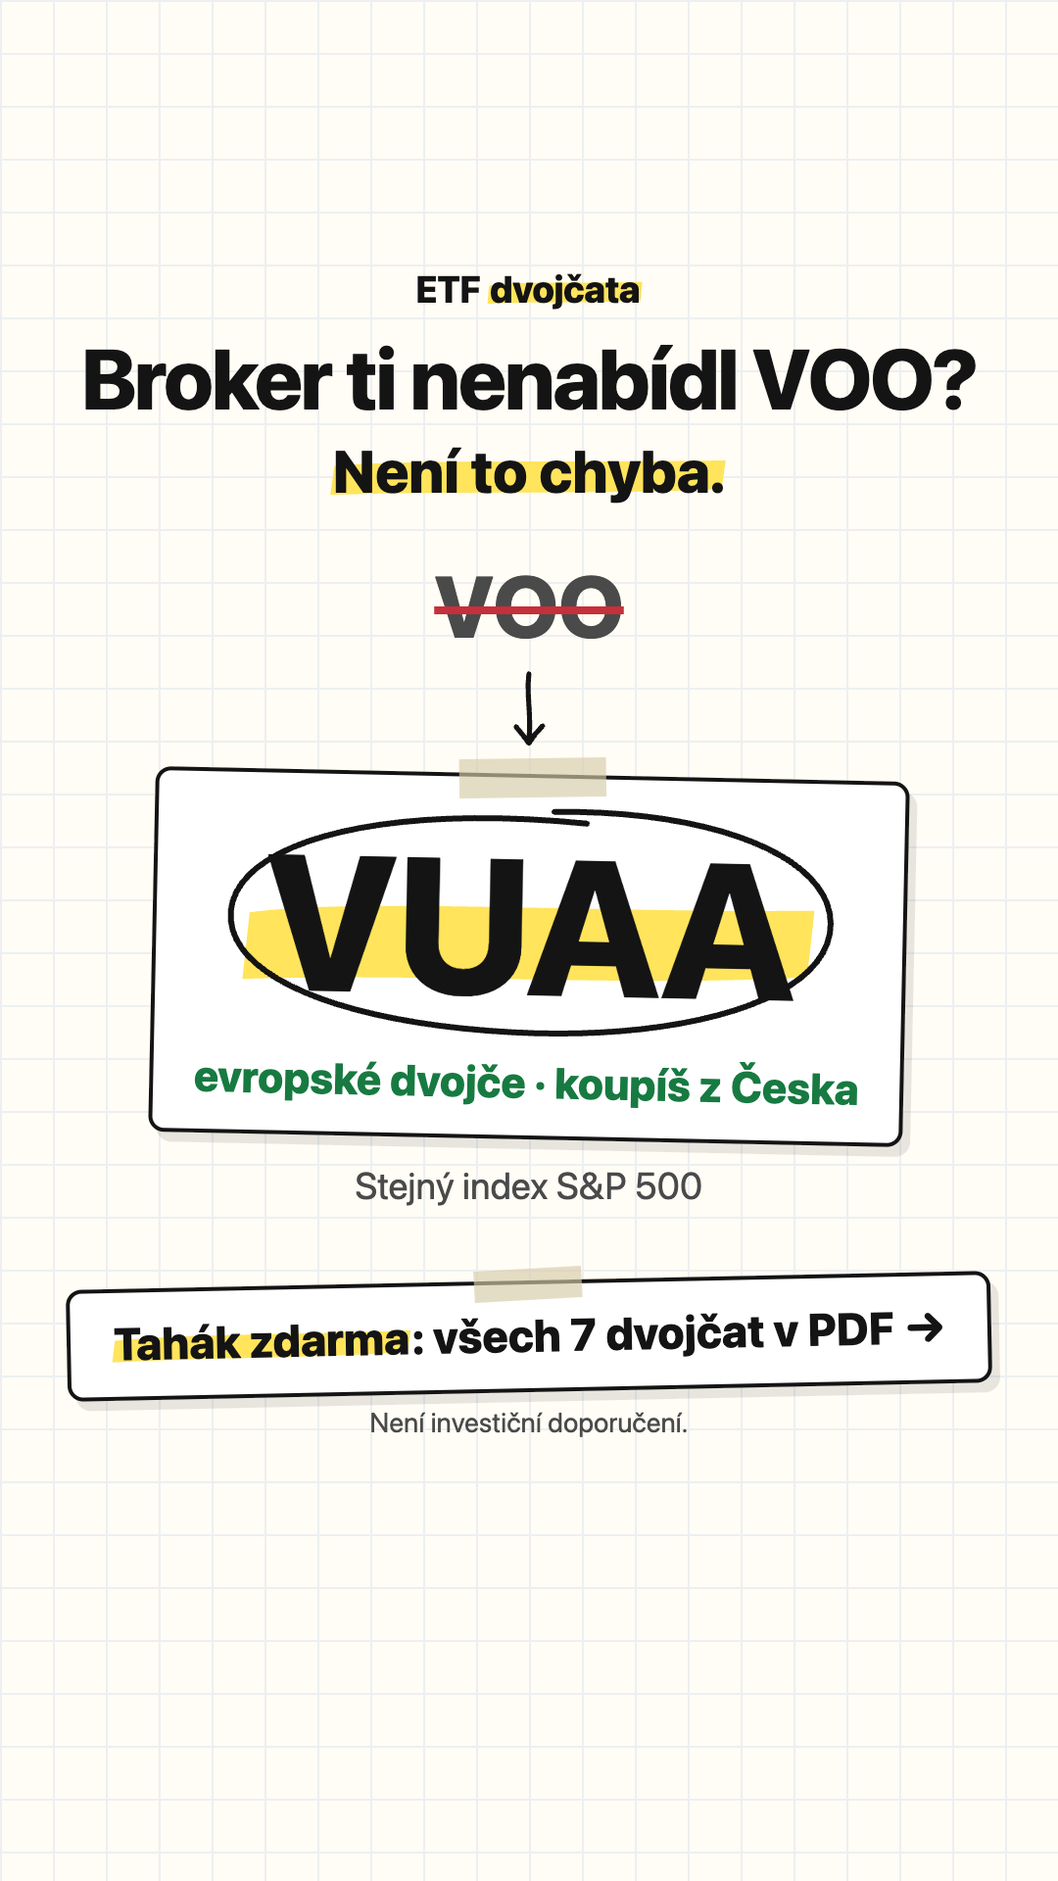
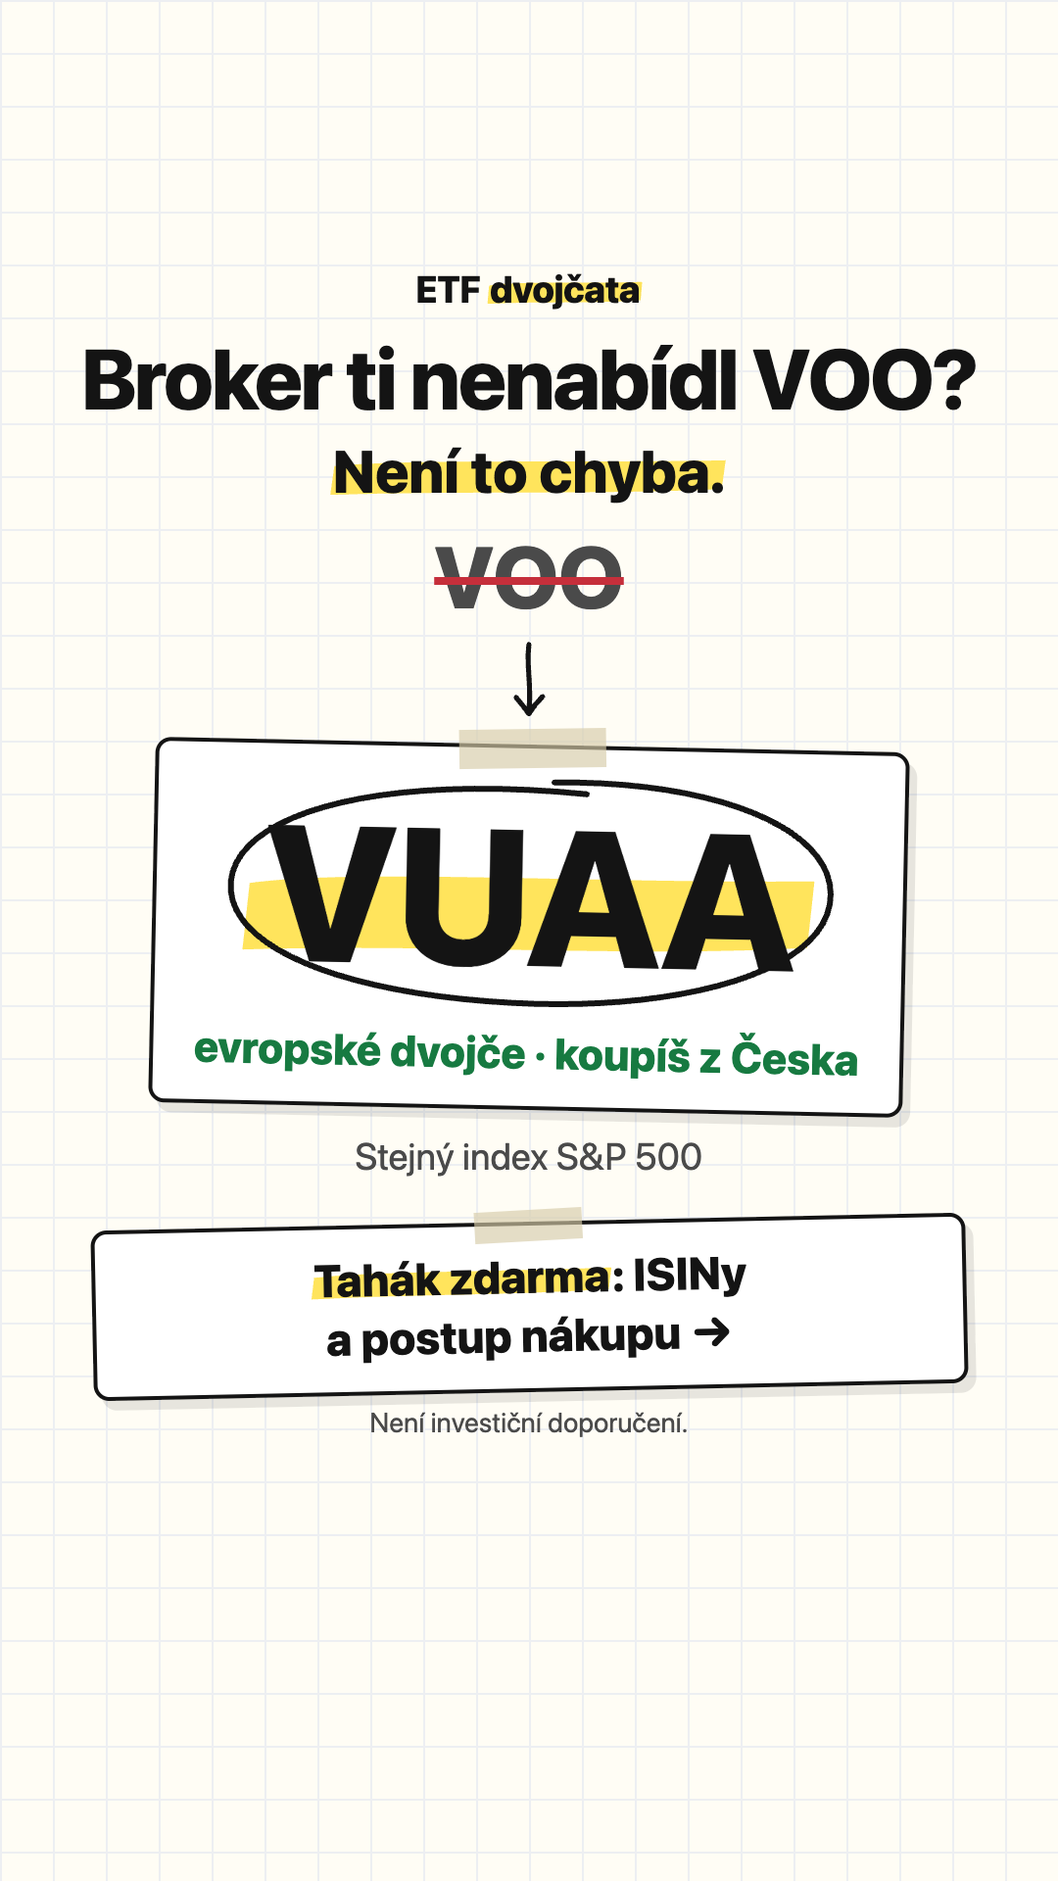
Slib taháku: ISINy a postup nákupu místo „všech 7 dvojčat“
Dvojčata stránka ukáže zdarma, tahák přidává jen ISINy a postup
nákupu u XTB a Trading 212 krok za krokem. Nový slib všude:
- výzva po otočení „Chci tahák s postupem nákupu“ (ze tří variant,
  zdůvodnění v README), text pod ní, spodní lišta, panel, nadpis
  sekce Tahák (postup nákupu je první odrážka),
- reklamy: „Tahák zdarma: ISINy a postup nákupu →“ (u Stories se
  nabídka zalomí, šířka 94 %, bezpečné zóny skript ověřil).
README: původní „výzva jak koupit“ už není hypotéza, ale oprava. Nová
druhá hypotéza: poslední tři lístky zamčené za e-mail (jen pro
reklamu A, riziko pro důvěru a slib reklamy B), auto-otočený lístek
je třetí. Pořadí znovu zdůvodněné. Chrome 128, WebKit 81.

Changed region(s): [[0.0611, 0.2812, 0.9472, 0.75], [0.825, 0.4062, 0.8861, 0.4375], [0.1222, 0.4062, 0.1528, 0.4375]]

diff --git a/public/index.html b/public/index.html
@@ -268,8 +268,8 @@ html{scroll-behavior:auto}
     </div>
 
     <div class="cta" id="vyber-cta" data-host hidden>
-      <button class="btn" type="button" data-otevri="vyber">Chci tahák se všemi 7&nbsp;dvojčaty</button>
-      <p class="small">ISINy, poplatky a&nbsp;postup nákupu krok za krokem. PDF hned a&nbsp;zdarma.</p>
+      <button class="btn" type="button" data-otevri="vyber">Chci tahák s&nbsp;postupem nákupu</button>
+      <p class="small">ISINy všech dvojčat a&nbsp;postup nákupu u&nbsp;XTB a&nbsp;Trading&nbsp;212 krok za krokem. PDF hned a&nbsp;zdarma.</p>
       <div class="form-slot" data-slot="vyber"></div>
     </div>
     <p class="stamp">Data od správců fondů a&nbsp;brokerů, ověřeno 10.&nbsp;10.&nbsp;2026 (<a href="#data">zdroje</a>). Není to investiční doporučení.</p>
@@ -406,13 +406,13 @@ html{scroll-behavior:auto}
 </section>
 
 <section class="section wrap" id="tahak">
-  <h2>Tahák: 7&nbsp;ETF z&nbsp;NYSE a&nbsp;jejich <span class="fix">dvojčata</span>, která koupíš z&nbsp;Česka</h2>
+  <h2>Tahák: ISINy dvojčat a&nbsp;<span class="fix">postup nákupu</span> krok za krokem</h2>
   <div class="form-card" data-host>
     <figure class="nahled"><img src="img/tahak-nahled.webp" width="480" height="420" loading="lazy" decoding="async" alt="Náhled první strany taháku: sedm párů ETF, u každého fajfka, kde ho koupíš, a poplatek v korunách."></figure>
     <ul class="bullets">
+      <li><svg class="ico"><use href="#fajfka"/></svg><span>Postup nákupu u&nbsp;XTB a&nbsp;Trading&nbsp;212&nbsp;krok za krokem, se zdrojem u&nbsp;každého kroku.</span></li>
       <li><svg class="ico"><use href="#fajfka"/></svg><span>ISIN a&nbsp;ticker všech 7&nbsp;dvojčat. Zkopíruješ je rovnou do aplikace brokera.</span></li>
       <li><svg class="ico"><use href="#fajfka"/></svg><span>Poplatky originálů a&nbsp;dvojčat vedle sebe.</span></li>
-      <li><svg class="ico"><use href="#fajfka"/></svg><span>Postup nákupu u&nbsp;XTB a&nbsp;Trading&nbsp;212&nbsp;krok za krokem.</span></li>
     </ul>
     <div class="form-slot" data-slot="sekce">
       <form class="lead-form" action="/api/lead" method="post" novalidate>
@@ -451,7 +451,7 @@ html{scroll-behavior:auto}
 
 <div class="bar" id="lista" hidden>
   <div class="bar-in">
-    <p>Tahák zdarma: všech 7&nbsp;dvojčat</p>
+    <p>Tahák zdarma: ISINy a&nbsp;postup nákupu</p>
     <button class="btn btn-yellow btn-small" type="button" data-otevri="lista">Chci tahák</button>
   </div>
 </div>
@@ -460,8 +460,8 @@ html{scroll-behavior:auto}
   <div class="sheet-in">
     <button class="sheet-close" type="button" aria-label="Zavřít" data-zavri>×</button>
     <div data-host>
-    <h2 id="panel-nadpis" tabindex="-1">Tahák: 7&nbsp;ETF z&nbsp;NYSE a&nbsp;jejich dvojčata, která koupíš z&nbsp;Česka</h2>
-    <p class="small">ISINy, poplatky a&nbsp;postup nákupu krok za krokem. PDF hned a&nbsp;zdarma.</p>
+    <h2 id="panel-nadpis" tabindex="-1">Tahák: ISINy dvojčat a&nbsp;postup nákupu krok za krokem</h2>
+    <p class="small">ISINy všech dvojčat a&nbsp;postup nákupu u&nbsp;XTB a&nbsp;Trading&nbsp;212 krok za krokem. PDF hned a&nbsp;zdarma.</p>
     <div class="form-slot" data-slot="lista"></div>
     </div>
   </div>

diff --git a/README.md b/README.md
@@ -11,7 +11,7 @@
 
 1. Otevři [etf-dvojcata-demo.vercel.app/?v=dvojce](https://etf-dvojcata-demo.vercel.app/?v=dvojce). Nadpis navazuje na reklamu A, pro srovnání zkus [?v=zacatek](https://etf-dvojcata-demo.vercel.app/?v=zacatek).
 2. Klepni na lístek **VOO**. Otočí se a ukáže evropské dvojče VUAA, u kterých brokerů ho koupíš a kolik stojí ročně z 10 000 Kč. Pod lístky se objeví výzva k taháku.
-3. Klepni na „Chci tahák se všemi 7 dvojčaty“, zadej e-mail, zaškrtni souhlas a odešli. Přijde poděkování s tlačítkem „Otevřít tahák“ (PDF) a sdílením. Když stránku posuneš dál, objeví se dole lišta, která formulář otevře jako panel.
+3. Klepni na „Chci tahák s postupem nákupu“, zadej e-mail, zaškrtni souhlas a odešli. Přijde poděkování s tlačítkem „Otevřít tahák“ (PDF) a sdílením. Když stránku posuneš dál, objeví se dole lišta, která formulář otevře jako panel.
 4. Ochrana formuláře: zkus `x@mailinator.com` (jednorázová adresa) nebo `test@neexistuje.invalid` (doména nepřijímá poštu).
 
 Takhle to vypadá na iPhonu 13 (390 × 844). Úvod, lístek a formulář jsou z živé stránky (11. 10. 2026, požadavky na `/api/` zablokované, nic se neodeslalo), poděkování z lokálního serveru s podvrženou databází:
@@ -47,9 +47,16 @@ Exporty konverzací s AI jsou v [ai-log/](ai-log/), reklamy v [reklamy/](reklamy
 
 **Kdy žádáme o kontakt:**
 
-1. Hned po prvním otočení lístku: pod lístky se objeví „Chci tahák se všemi 7 dvojčaty“. Návštěvník právě dostal hodnotu a ví, že zbylých 6 párů a postup jsou v taháku. Formulář se rozbalí na místě.
+1. Hned po prvním otočení lístku: pod lístky se objeví „Chci tahák s postupem nákupu“. Návštěvník právě viděl dvojče a výzva mu nabízí, co mu ještě chybí: jak ho koupit. Formulář se rozbalí na místě.
 2. Spodní lištou, která se ukáže, když lístky zmizí z obrazovky a výzva ani formulář nejsou vidět. Formulář se otevře jako panel tam, kde návštěvník právě je.
 3. Formulářem v sekci Tahák pro ty, kdo dočtou až dolů.
+
+**Co tahák slibuje.** Jen to, co PDF přidává navíc ke stránce: ISINy všech dvojčat a postup nákupu u XTB a Trading 212 krok za krokem. Dvojčata samotná stránka ukáže zdarma, takže slib „všech 7 dvojčat“, který tu byl dřív, by nabízel něco, co návštěvník už má. Varianty textu tlačítka pod lístky:
+1. „Chci tahák s postupem nákupu“ (vybraná: nejkratší, nezalomí se ani na 320 px, navazuje na „Tahák zdarma“ z reklam a sedí s tlačítkem u karet „Chci tahák s ISINy a postupem nákupu“),
+2. „Chci postup nákupu krok za krokem“ (konkrétnější, ale bez slova tahák, které reklama slibuje),
+3. „Chci tahák: ISINy a postup nákupu“ (úplné, ale ISIN začátečník nezná).
+
+Spodní lišta: „Tahák zdarma: ISINy a postup nákupu“, reklamy: „Tahák zdarma: ISINy a postup nákupu →“.
 
 **Formulář:** jen e-mail a souhlas (proč, je v [obchodním pohledu](#obchodní-pohled)). Tlačítko je hned pod polem, aby ho na iPhonu nezakryla klávesnice ani lišta s návrhy e-mailů.
 
@@ -147,26 +154,28 @@ Seřazené podle očekávaného dopadu na konverzi návštěva → odeslání. H
 
 **1. Formulář rovnou pod otočeným lístkem**
 - **Hypotéza:** když po prvním otočení uvidí návštěvník rovnou pole na e-mail, odpadne jedno klepnutí ve chvíli největšího zájmu a víc lidí formulář odešle.
-- **Co měníme:** pod lístky se místo tlačítka „Chci tahák se všemi 7 dvojčaty“, které formulář teprve rozbalí, ukáže rovnou formulář (pole, „Získat tahák“, souhlas). Zbytek stránky zůstane stejný.
+- **Co měníme:** pod lístky se místo tlačítka „Chci tahák s postupem nákupu“, které formulář teprve rozbalí, ukáže rovnou formulář (pole, „Získat tahák“, souhlas). Zbytek stránky zůstane stejný.
 - **Metrika:** návštěva → odeslání. Kontrolní: návštěva → otočení lístku (formulář pod lístky nesmí odradit od dalšího otáčení).
 - **Minimum:** z 6 % na 7,5 % (+25 %) → 4 388 návštěv na verzi, **asi 8 800 celkem**.
 - **Proč první:** míří na krok s největším odhadovaným úbytkem v procentech (z těch, kdo otočí lístek, formulář neotevře 70 %) a mění jen jeden prvek. Čekám od ní největší dopad.
 
-**2. Jeden lístek otočený hned po načtení**
+**2. Poslední tři lístky zamčené za e-mail**
+- **Hypotéza:** když se dvojčata SDY, VGT a AGG ukážou až po zadání e-mailu, část lidí, kteří chtějí vidět celý přehled, e-mail zadá. Teď dostanou všech 7 dvojčat zdarma a důvod k e-mailu je jen postup nákupu.
+- **Co měníme:** lístky SDY, VGT a AGG mají místo „otoč“ zámek a po klepnutí otevřou formulář („Dvojče najdeš v taháku“). VOO a ostatní zůstanou volně, takže slib reklamy A platí. Karty párů níž ukážou u zamčených fondů jen originál.
+- **Metrika:** návštěva → odeslání. Kontrolní: podíl návštěv, které odejdou hned po klepnutí na zamčený lístek, a stížnosti v komentářích u reklamy.
+- **Minimum:** z 6 % na 7,2 % (+20 %) → 6 717 návštěv na verzi, **asi 13 400 celkem**.
+- **Proč druhá:** může mít velký dopad, ale nese riziko: jde proti zásadě, že hodnota je vidět před formulářem, část lidí odradí a nesmí ji vidět lidé z reklamy B, která slibuje všech 7 fondů a jejich evropské verze. Test proto jen na návštěvách z reklamy A (`?v=dvojce`) a až po první hypotéze.
+
+**3. Jeden lístek otočený hned po načtení**
 - **Hypotéza:** část lidí nepozná, že se na lístek dá klepnout, nebo to nezkusí. Když lístek VOO ukáže dvojče sám, hodnota je vidět bez jediné akce a víc lidí dojde k výzvě.
 - **Co měníme:** lístek VOO se chvíli po načtení sám otočí na VUAA, ostatní zůstanou lícem nahoru.
 - **Metrika:** návštěva → odeslání. Vedlejší: návštěva → otočení lístku, které by se mělo zvednout nejvíc.
-- **Minimum:** z 6 % na 7,2 % (+20 %) → 6 717 návštěv na verzi, **asi 13 400 celkem**.
-- **Proč druhá:** míří na krok 2, kde v absolutních číslech odejde odhadem nejvíc lidí (600 z 1 000), ale na odeslání působí jen nepřímo. Kdo uvidí dvojče bez klepnutí, nemusí o tahák stát. Proto čekám menší dopad než u první.
-
-**3. Výzva slibuje „jak koupit“ místo „všech 7 dvojčat“**
-- **Hypotéza:** kdo otočil lístek, už ví, co koupit, ale neví jak. Výzva, která slibuje postup nákupu, je pro něj konkrétnější než seznam, jehož část už viděl.
-- **Co měníme:** text tlačítka pod lístky a ve spodní liště, například „Chci postup nákupu krok za krokem“. Formulář i tahák zůstanou stejné.
-- **Metrika:** návštěva → odeslání. Vedlejší: otočení lístku → otevření formuláře.
 - **Minimum:** z 6 % na 6,9 % (+15 %) → 11 690 návštěv na verzi, **asi 23 400 celkem**.
-- **Proč třetí:** mění jen slova, ne počet kroků ani to, co návštěvník vidí. Čekám nejmenší efekt, a proto potřebuje nejvíc návštěv. Na druhou stranu se připraví nejrychleji.
+- **Proč třetí:** míří na krok 2, kde v absolutních číslech odejde odhadem nejvíc lidí (600 z 1 000), ale na odeslání působí jen nepřímo. Kdo uvidí dvojče bez klepnutí, nemusí o tahák stát. Proto čekám nejmenší dopad.
 
-**Výpočet minima:** n na verzi = (z₁₋α/₂ + z₁₋β)² × [p₁(1 − p₁) + p₂(1 − p₂)] ÷ (p₂ − p₁)², kde α = 0,05 oboustranně (z = 1,96) a síla testu 80 % (z = 0,84), takže (1,96 + 0,84)² ≈ 7,85. Například první hypotéza: 7,85 × (0,06 × 0,94 + 0,075 × 0,925) ÷ 0,015² = 7,85 × 0,1258 ÷ 0,000225 ≈ 4 388. Výchozí konverze 6 % je střední odhad. Kdyby skutečná byla 2 %, potřebný počet návštěv vyjde zhruba třikrát vyšší (u první hypotézy 13 807 na verzi). Výpočet je proto potřeba zopakovat s konverzí naměřenou v prvním týdnu. Při 500 návštěvách denně (předpoklad) by první test trval asi 18 dní, druhý 27 a třetí 47.
+**Co už hypotéza není:** dřívější třetí hypotéza „výzva slibuje postup nákupu místo všech 7 dvojčat“. Stránka dvojčata ukáže zdarma, takže slib „všech 7 dvojčat“ byl chyba, ne varianta k testu. Je opravený všude (výzva, lišta, panel, sekce Tahák, reklamy).
+
+**Výpočet minima:** n na verzi = (z₁₋α/₂ + z₁₋β)² × [p₁(1 − p₁) + p₂(1 − p₂)] ÷ (p₂ − p₁)², kde α = 0,05 oboustranně (z = 1,96) a síla testu 80 % (z = 0,84), takže (1,96 + 0,84)² ≈ 7,85. Například první hypotéza: 7,85 × (0,06 × 0,94 + 0,075 × 0,925) ÷ 0,015² = 7,85 × 0,1258 ÷ 0,000225 ≈ 4 388. Výchozí konverze 6 % je střední odhad. Kdyby skutečná byla 2 %, potřebný počet návštěv vyjde zhruba třikrát vyšší (u první hypotézy 13 807 na verzi). Výpočet je proto potřeba zopakovat s konverzí naměřenou v prvním týdnu. Při 500 návštěvách denně (předpoklad) by první test trval asi 18 dní, druhý 27 a třetí 47. Druhý test běží jen na návštěvách z reklamy A, takže potrvá déle podle toho, jaký podíl provozu A přivede.
 
 **Co je pro test potřeba připravit:** stránka zatím rozlišuje jen verzi reklamy (`?v=`). Pro test na stránce je potřeba přidat druhý parametr nebo náhodné přidělení verze při načtení (bez ukládání do prohlížeče) a ukládat ho k událostem i ke kontaktu. Testy pouštět po jednom, s délkou určenou předem a bez předčasného vyhodnocování.
 

diff --git a/texty.md b/texty.md
@@ -76,8 +76,8 @@ Nadpis a podnadpis se mění podle parametru v URL (viz `reklamy/README.md`). Zb
 
   `[d: * › typ]` `[d: * › ucits_obdoba.rozdil_oproti_originalu]` `[d: * › ucits_obdoba.burza.ticker]` `[d: * › ucits_obdoba.kde_koupit]` `[výpočet: TER × 100 = Kč z 10 000 Kč, d: * › ucits_obdoba.ter]`
 - **Po prvním otočení se pod lístky objeví výzva:**
-  - tlačítko: Chci tahák se všemi 7 dvojčaty. Formulář se rozbalí na místě.
-  - pod ním: ISINy, poplatky a postup nákupu krok za krokem. PDF hned a zdarma.
+  - tlačítko: Chci tahák s postupem nákupu. Formulář se rozbalí na místě.
+  - pod ním: ISINy všech dvojčat a postup nákupu u XTB a Trading 212 krok za krokem. PDF hned a zdarma.
 - **Pod výběrem (u lístků, ne až v patičce):** Data od správců fondů a brokerů, ověřeno 10. 10. 2026 (zdroje). Není to investiční doporučení. „zdroje“ vede na sekci se zdroji.
   `[d: meta.overeno_dne]`
 
@@ -209,7 +209,7 @@ U „Kde koupit“ jmenujeme všechny brokery, u kterých jsme dostupnost ověř
 
 ## 6. Formulář
 
-- **H2:** Tahák: 7 ETF z NYSE a jejich dvojčata, která koupíš z Česka
+- **H2:** Tahák: ISINy dvojčat a postup nákupu krok za krokem (slibuje jen to, co PDF přidává ke stránce; dvojčata stránka ukáže zdarma)
 - **Co v něm je:**
   - ISIN a ticker všech 7 dvojčat. Zkopíruješ je rovnou do aplikace brokera. `[d: * › ucits_obdoba.isin]` `[d: * › ucits_obdoba.burza]`
   - Poplatky originálů a dvojčat vedle sebe. `[d: * › ter]` `[d: * › ucits_obdoba.ter]`
@@ -260,12 +260,12 @@ U „Kde koupit“ jmenujeme všechny brokery, u kterých jsme dostupnost ověř
 
 ## Tlačítko pořád vidět dole (mobil)
 
-- **Text:** Tahák zdarma: všech 7 dvojčat
+- **Text:** Tahák zdarma: ISINy a postup nákupu
 - **Tlačítko (žluté):** Chci tahák. Otevře panel s formulářem.
 - **Kdy je lišta vidět:** až když jsou lístky mimo obrazovku (nepřekrývá je) a zrovna není vidět výzva ani formulář.
 - **Panel:**
-  - nadpis: Tahák: 7 ETF z NYSE a jejich dvojčata, která koupíš z Česka
-  - pod ním: ISINy, poplatky a postup nákupu krok za krokem. PDF hned a zdarma.
+  - nadpis: Tahák: ISINy dvojčat a postup nákupu krok za krokem
+  - pod ním: ISINy všech dvojčat a postup nákupu u XTB a Trading 212 krok za krokem. PDF hned a zdarma.
   - zavírací tlačítko „×“ s popiskem pro čtečky „Zavřít“
 - **Chování:**
   - objeví se, až jsou lístky mimo obrazovku,
@@ -303,7 +303,7 @@ U „Kde koupit“ jmenujeme všechny brokery, u kterých jsme dostupnost ověř
 
 ## Rozhodnutí (10. 10. 2026)
 
-- **Tlačítko:** „Chci tahák se všemi 7 dvojčaty“.
+- **Tlačítko:** „Chci tahák s postupem nákupu“.
 - **Brokeři:** jmenujeme všechny, u kterých se dostupnost podaří ověřit na jejich webu.
 - **VOO zůstává hlavním příkladem.** Háček je formulovaný tak, aby platil, i kdyby VOO některý broker prodával.
 - **Název stránky:** ETF dvojčata.

diff --git a/reklamy/b-zacatek.md b/reklamy/b-zacatek.md
@@ -43,7 +43,7 @@ Hotové obrázky: [b-zacatek-feed.png](b-zacatek-feed.png) (1080 × 1350) a [b-z
 - U každého tickeru „→ ?“ (otazník se žlutým fixem): dvojčata reklama záměrně neukazuje, odpověď je v taháku a na stránce.
 - Žádný řádek není zakroužkovaný ani označený jako „nejlepší“, nic nedoporučujeme.
 - Pod seznamem: „Co v nich je a kde je koupíš z Česka“.
-- **Nabídka dole** (lístek s páskou, „Tahák zdarma“ se žlutým fixem): „Tahák zdarma: všech 7 dvojčat v PDF →“. Říká, co člověk po kliknutí dostane, stejně jako výzva na stránce („Chci tahák se všemi 7 dvojčaty“, „PDF hned a zdarma“).
+- **Nabídka dole** (lístek s páskou, „Tahák zdarma“ se žlutým fixem): „Tahák zdarma: ISINy a postup nákupu →“. Slibuje jen to, co PDF přidává navíc ke stránce (dvojčata stránka ukáže zdarma), stejně jako výzva na stránce („Chci tahák s postupem nákupu“, „PDF hned a zdarma“).
 - **Pod ní nenápadně:** „Není investiční doporučení.“
 
 **Stories a Reels 9 : 16:** stejný obsah, větší písmo, rozložený do celé bezpečné výšky (nabídka dole nad zónou ovládání), text je mimo horních 270 px, dolních 450 px a 65 px po stranách (ovládání Instagramu a Facebooku; skript to kontroluje). Oficiální zóny Meta jsem neověřil, jen z návodů třetích stran, které se rozcházejí (dole 250–670 px), proto před spuštěním zkontrolovat v náhledu Ads Manageru.

diff --git a/reklamy/a-dvojce.md b/reklamy/a-dvojce.md
@@ -26,7 +26,7 @@ Hotové obrázky: [a-dvojce-feed.png](a-dvojce-feed.png) (1080 × 1350) a [a-dvo
 - **Hook nahoře:** otázka z primárního textu „Broker ti nenabídl VOO?“ a pod ní menší „Není to chyba.“ se žlutým fixem. Je to nejvýraznější text po VUAA. Bez něj by nebylo jasné, proč je VOO přeškrtnuté.
 - Pod tím **VOO** přeškrtnuté jako na stránce, šipka dolů a největší **VUAA** v kroužku a se žlutým fixem na lístku s páskou.
 - Na lístku: „evropské dvojče · koupíš z Česka“, pod ním drobně „Stejný index S&P 500“. `[d: VOO › ucits_obdoba.rozdil_oproti_originalu]`
-- **Nabídka dole** (lístek s páskou, „Tahák zdarma“ se žlutým fixem): „Tahák zdarma: všech 7 dvojčat v PDF →“. Říká, co člověk po kliknutí dostane, stejně jako výzva na stránce („Chci tahák se všemi 7 dvojčaty“, „PDF hned a zdarma“).
+- **Nabídka dole** (lístek s páskou, „Tahák zdarma“ se žlutým fixem): „Tahák zdarma: ISINy a postup nákupu →“. Slibuje jen to, co PDF přidává navíc ke stránce (dvojčata stránka ukáže zdarma), stejně jako výzva na stránce („Chci tahák s postupem nákupu“, „PDF hned a zdarma“).
 - **Pod ní nenápadně:** „Není investiční doporučení.“
 - Žádní lidé s telefonem, žádná loga, žádné rozhraní brokera. Původně „nejvýš tři řádky textu“; hook a nabídka přibyly, protože bez nich byla reklama moc strohá (zpětná vazba 11. 10. 2026).
 
